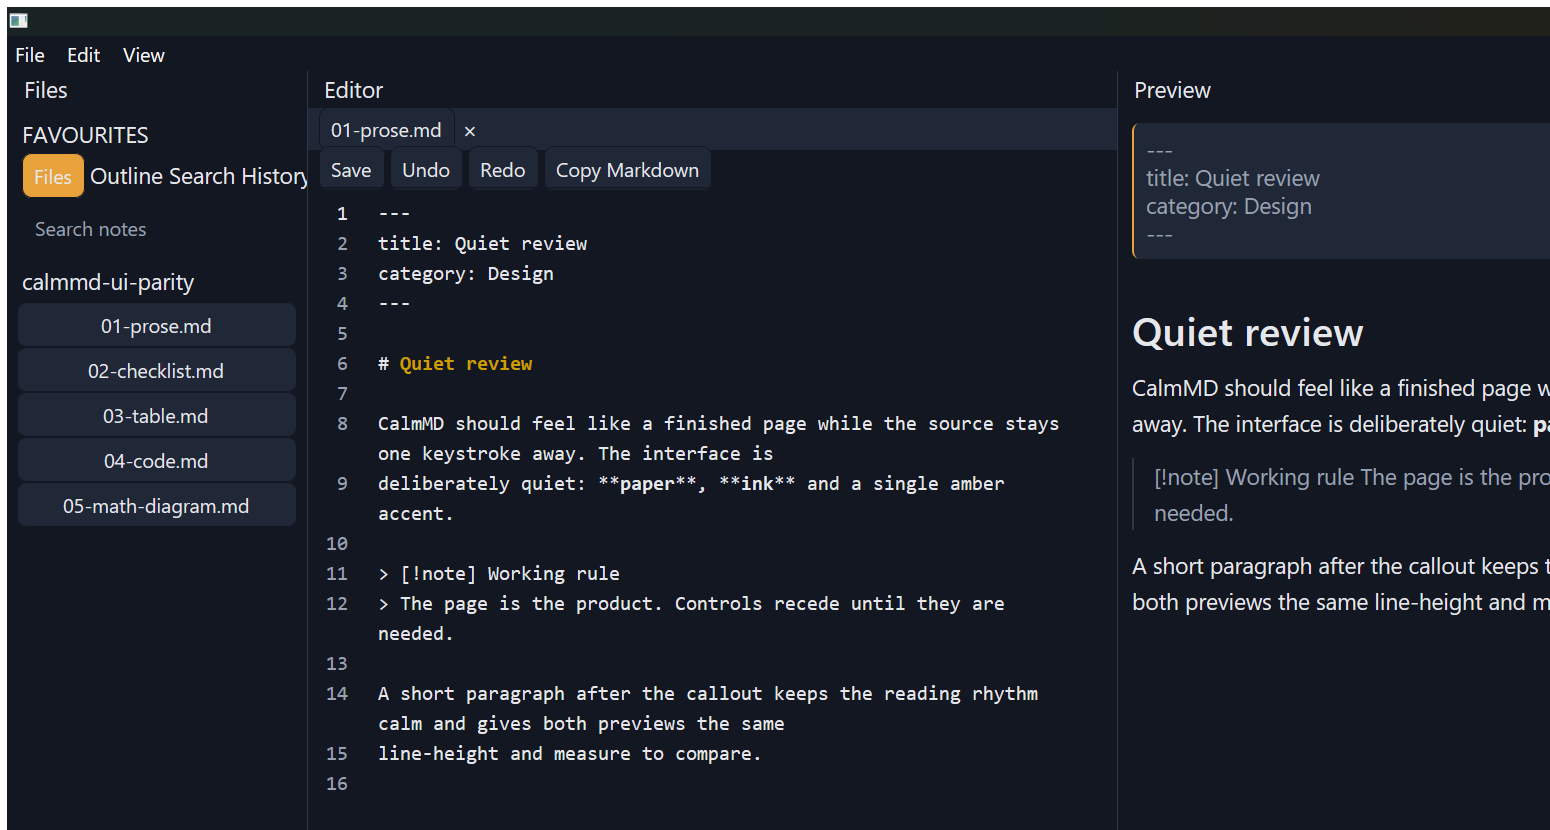
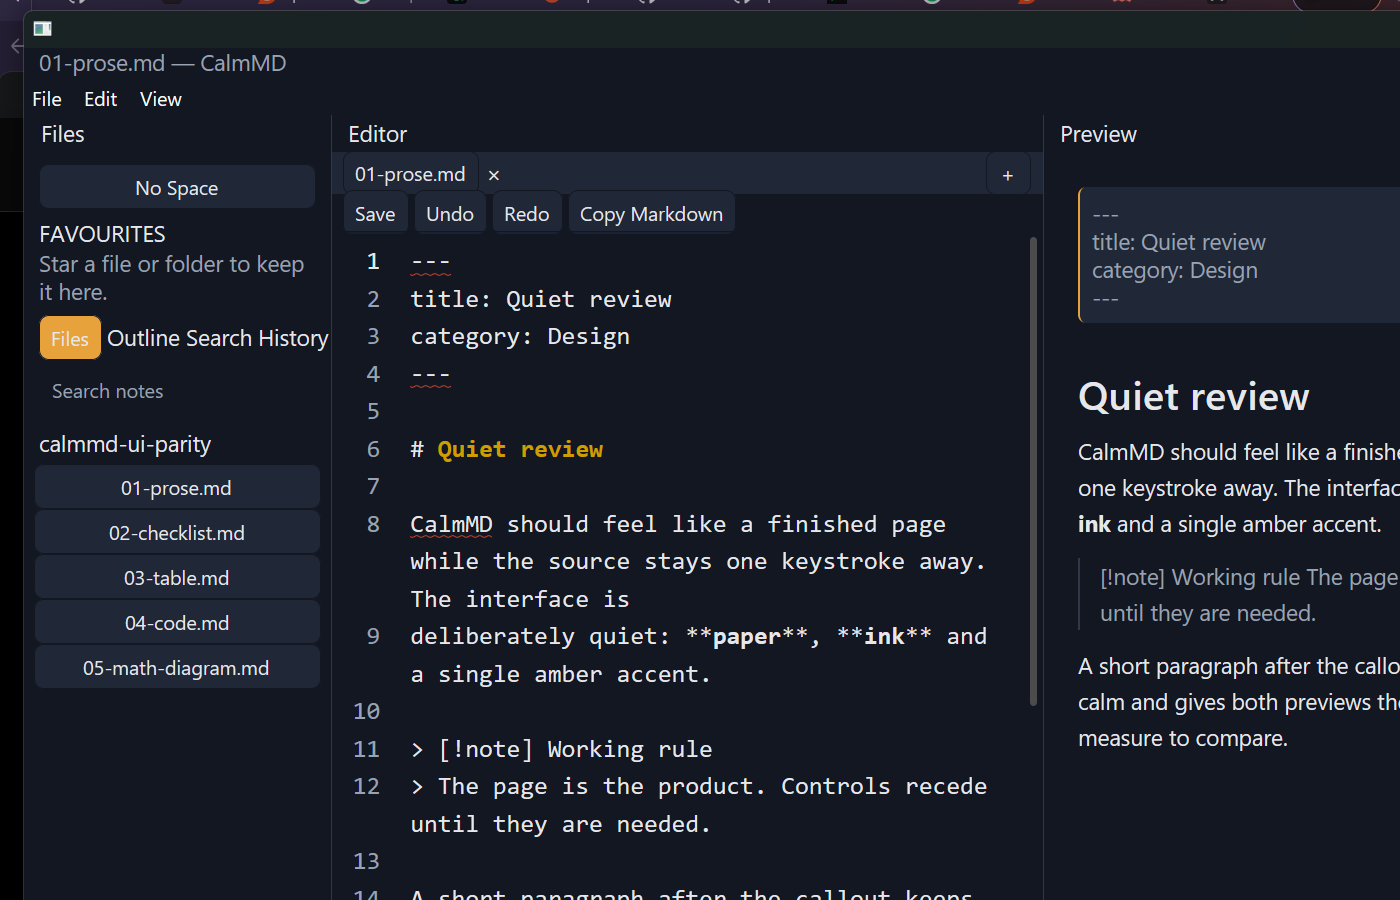
Match Tauri at 1400x900 in GPUI shell

diff --git a/apps/calmmd-gpui/src/ui.rs b/apps/calmmd-gpui/src/ui.rs
@@ -310,7 +310,7 @@ impl AppView {
         dock.update(cx, |dock, cx| {
             dock.set_center(
                 DockLayout::h_split()
-                    .child(DockLayout::tabs().panel(sidebar), Some(px(240.0)))
+                    .child(DockLayout::tabs().panel(sidebar), Some(px(272.0)))
                     .child(
                         DockLayout::v_split()
                             .child(
@@ -359,10 +359,22 @@ impl AppView {
 impl Render for AppView {
     fn render(&mut self, _window: &mut Window, cx: &mut Context<Self>) -> impl IntoElement {
         let state = self.state.clone();
-        let background = Theme::global(cx).background;
+        let theme = Theme::global(cx);
+        let background = theme.background;
+        let title = self.state.read(cx).title();
         let mut root = div().v_flex().size_full();
         #[cfg(not(target_os = "macos"))]
         {
+            // Tauri has a title row above its menu row. GPUI draws both locally so the split view
+            // starts at the same vertical offset.
+            root = root.child(
+                div()
+                    .h(px(26.0))
+                    .flex_shrink_0()
+                    .bg(background)
+                    .px(px(12.0))
+                    .child(Label::new(format!("{title} — CalmMD")).text_color(theme.muted_foreground)),
+            );
             // AppMenuBar fills its parent. Without a fixed-height wrapper it consumes the whole
             // window and leaves the dock zero pixels tall.
             root = root.child(
@@ -487,13 +499,25 @@ impl Render for SidebarPanel {
 
         let mut column = div().v_flex().size_full().bg(theme.background);
         column = column.child(
+            div().px(px(12.0)).pt(px(10.0)).pb(px(8.0)).child(
+                Button::new("space-selector")
+                    .label("No Space")
+                    .compact(),
+            ),
+        );
+        column = column.child(
             div()
                 .h_flex()
                 .px(px(12.0))
-                .pt(px(10.0))
-                .pb(px(4.0))
+                .pb(px(2.0))
                 .gap(px(6.0))
                 .child(Label::new("FAVOURITES")),
+        );
+        column = column.child(
+            div().px(px(12.0)).pb(px(8.0)).child(
+                Label::new("Star a file or folder to keep it here.")
+                    .text_color(theme.muted_foreground),
+            ),
         );
         column = column.child(
             div()
@@ -665,7 +689,14 @@ impl Render for EditorPanel {
                     .gap(px(6.0))
                     .bg(theme.muted)
                     .child(Button::new("editor-tab").label(title).compact())
-                    .child(Label::new("×")),
+                    .child(Label::new("×"))
+                    .child(div().flex_1())
+                    .child(
+                        Button::new("editor-new-tab")
+                            .label("+")
+                            .compact()
+                            .on_click(|_, window, cx| window.dispatch_action(Box::new(NewDocument), cx)),
+                    ),
             )
             .child(
                 div()
@@ -747,7 +778,7 @@ impl Render for PreviewPanel {
                 state.update(cx, |state, cx| state.open_link(&target, cx));
             });
         let _ = window;
-        div().size_full().p(px(12.0)).child(view)
+        div().size_full().p(px(28.0)).child(view)
     }
 }
 

diff --git a/apps/calmmd-gpui/src/state.rs b/apps/calmmd-gpui/src/state.rs
@@ -101,7 +101,7 @@ impl WorkspaceState {
             message: "Ready".into(),
             search_query: String::new(),
             search_results: Vec::new(),
-            spell_language: None,
+            spell_language: default_spell_language(),
             autosave_status: "clean".into(),
             conflict: false,
             dirty: false,
@@ -606,6 +606,10 @@ fn parent_dir(path: &str) -> String {
         .unwrap_or_default()
 }
 
+fn default_spell_language() -> Option<String> {
+    Some("en-US".to_owned())
+}
+
 fn documents_from_value(value: &Value) -> Option<Vec<DocumentItem>> {
     let entries = value.as_array()?;
     Some(
@@ -625,6 +629,11 @@ fn documents_from_value(value: &Value) -> Option<Vec<DocumentItem>> {
 mod tests {
     use super::documents_from_value;
     use serde_json::json;
+
+    #[test]
+    fn bundled_english_is_the_default_spell_language() {
+        assert_eq!(super::default_spell_language().as_deref(), Some("en-US"));
+    }
 
     #[test]
     fn document_list_is_read_from_the_array_shape_returned_by_core() {

diff --git a/apps/calmmd-gpui/src/theme.rs b/apps/calmmd-gpui/src/theme.rs
@@ -35,7 +35,7 @@ fn apply(cx: &mut App, mode: ThemeMode) {
     Theme::update(cx, |theme| {
         theme.mode = mode;
         theme.font_size = px(18.0);
-        theme.mono_font_size = px(16.0);
+        theme.mono_font_size = px(20.0);
         theme.radius = px(8.0);
         theme.radius_lg = px(10.0);
 

diff --git a/docs/visual-reviews/gpui-parity/README.md b/docs/visual-reviews/gpui-parity/README.md
@@ -1,6 +1,6 @@
 # GPUI ↔ Tauri visual parity pass
 
-The two screenshots were taken from maximized desktop windows at 1550×830 with the same five-document
+The two screenshots were taken from regular desktop windows at 1400×900 with the same five-document
 fixture in `fixture/`. Both use the dark palette.
 
 | Shell | Capture |
@@ -20,7 +20,13 @@ fixture in `fixture/`. Both use the dark palette.
   History header, a search box, the folder name and a document list, with utilities in a footer.
 - The editor gained a document tab and a small real-action toolbar (Save, Undo, Redo, Copy Markdown).
 - Front matter renders as a quiet amber-ruled source block instead of Kit's description list.
-- Body and mono font sizes were raised to 18 px / 16 px, closer to the Tauri split view.
+- Body and mono font sizes were raised to 18 px / 20 px, so source wrapping and line density match
+  the Tauri split view.
+- A local title row plus Tauri's Space selector and favourites hint make the sidebar and chrome read
+  as the same product.
+- The default spell language is now the bundled US English dictionary, so misspellings get the same
+  visible diagnostics as the incumbent shell.
+- Preview padding was increased from 12 px to 28 px, matching Tauri's reading gutter.
 
 ## Still different
 
@@ -30,6 +36,6 @@ fixture in `fixture/`. Both use the dark palette.
   search only.
 - Preview parity is structural but Mermaid, KaTeX and custom CSS themes are still native
   approximations.
-- Light-mode captures and per-OS font fallback checks are still pending.
+- Light-mode captures, richer toolbar controls and per-OS font fallback checks are still pending.
 
 Captures can be reproduced with `scripts/capture-desktop.ps1` once both apps are open on the fixture.

diff --git a/docs/RUST-CORE-PLAN.md b/docs/RUST-CORE-PLAN.md
@@ -113,8 +113,10 @@ next milestone is a full native shell migration; it is a UI rewrite, not a depen
   paths and single-instance launch queueing. See `docs/visual-reviews/gpui-phases-14-15.md` and
   `docs/PLATFORM-LIMITS.md`.
 - **GPUI visual parity pass:** maximized Tauri and GPUI captures with the same five-document fixture
-  are stored in `docs/visual-reviews/gpui-parity/`. The pass fixed the zero-height dock, first-window
-  label, empty sidebar list, oversized utility stack, front-matter presentation and font sizes.
+  are stored in `docs/visual-reviews/gpui-parity/`. The initial 1550×830 pass fixed the zero-height
+  dock, first-window label, empty sidebar list, oversized utility stack, front-matter presentation and
+  font sizes. A follow-up 1400×900 pass matched Tauri's source density, preview gutter, chrome rows,
+  Space selector, favourites hint and default spell diagnostics.
 - **Phase 16 — implemented:** MCP now starts in the default GPUI shell with `--mcp` and in a new
   headless `calmmd-mcp` binary built from `calmmd-core`. Both passed the 49-check smoke without the
   webview export bridge.
